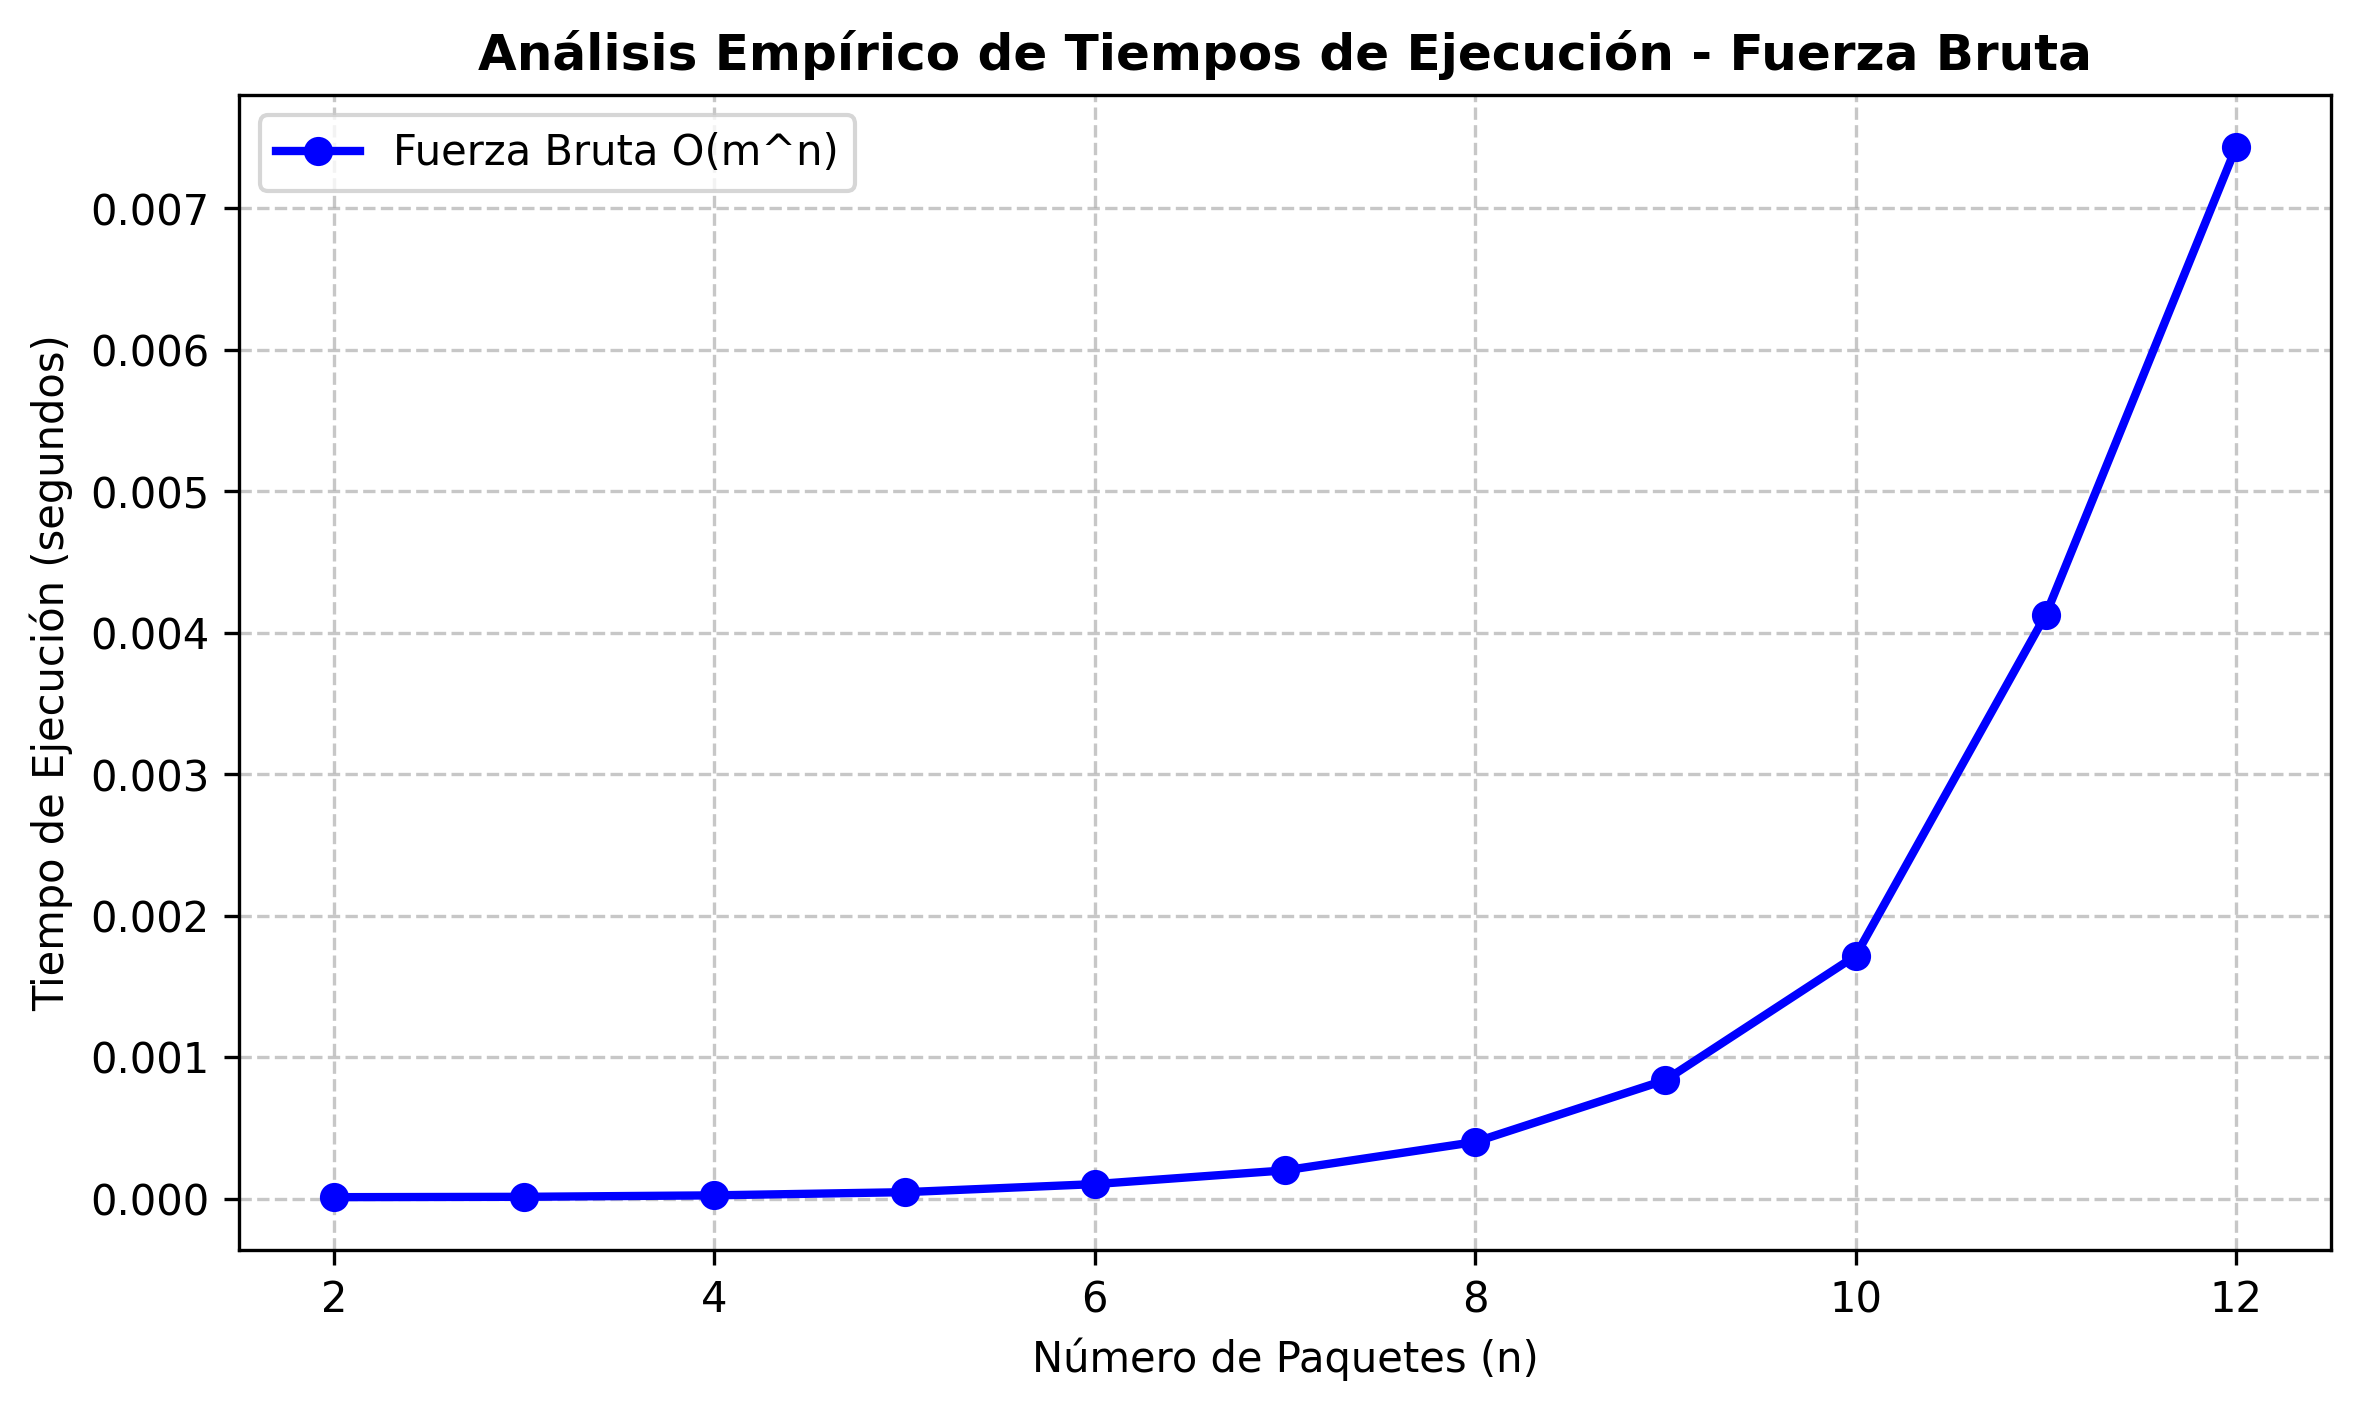
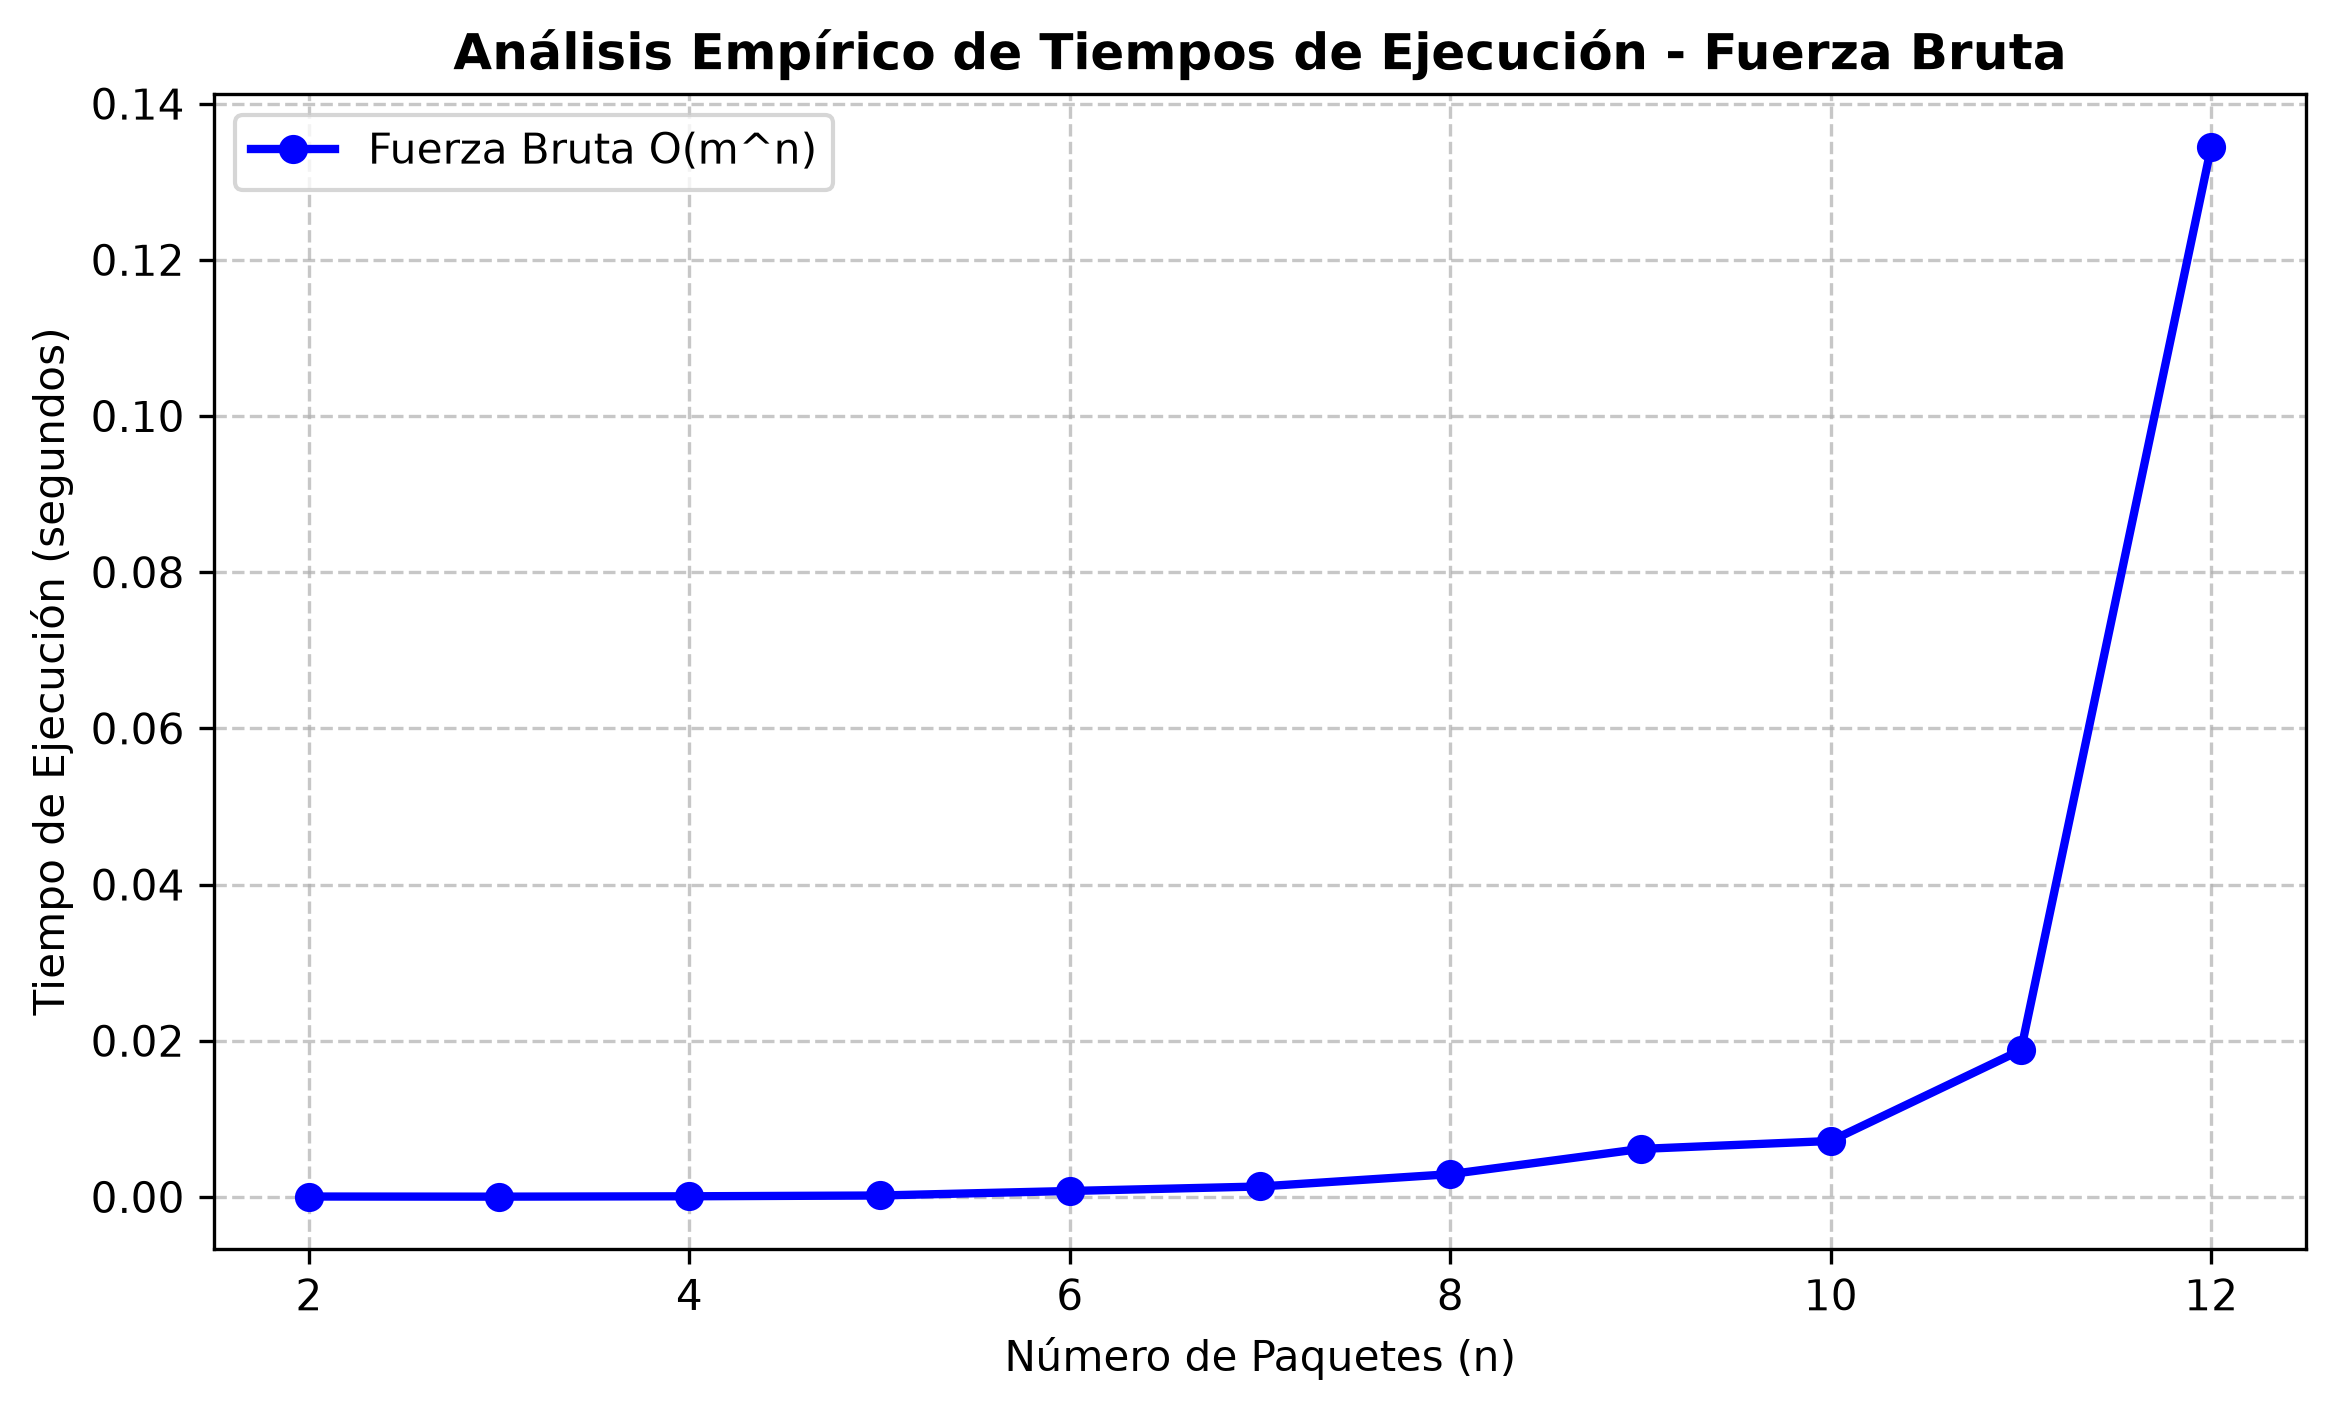
feat: organizacion de ejecutar compartativa para qu etome los datos que arroja fuerza bruta y no datos simulados

diff --git a/src/comparativa.py b/src/comparativa.py
@@ -25,7 +25,7 @@ def ejecutar_comparativa():
 
         # Medición de tiempo
         inicio = time.perf_counter()
-        fuerza_bruta(paquetes, camiones)  # Se ejecuta la función directamente sin asignación
+        _, total = fuerza_bruta(paquetes, camiones)  # Se ejecuta la función directamente sin asignación
         fin = time.perf_counter()
 
         # Restaurar la salida normal de la terminal
@@ -33,8 +33,6 @@ def ejecutar_comparativa():
 
         tiempo_ejecucion = fin - inicio
         
-        # Calcular m^n directamente desde comparativa
-        total = len(camiones) ** len(paquetes)
         
         tiempos.append(tiempo_ejecucion)
         total_combinaciones.append(total)
